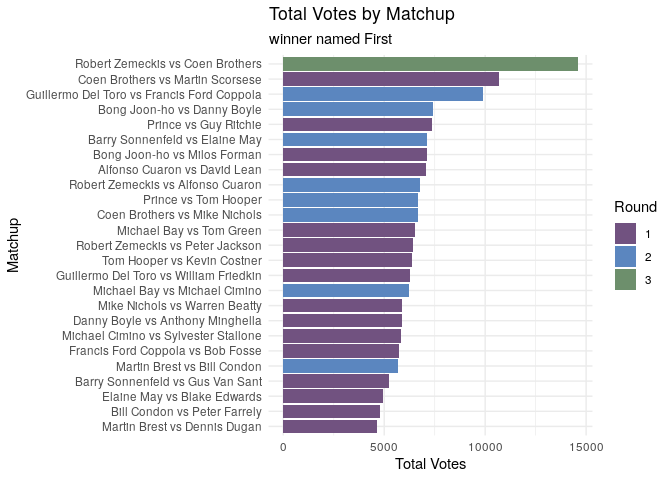
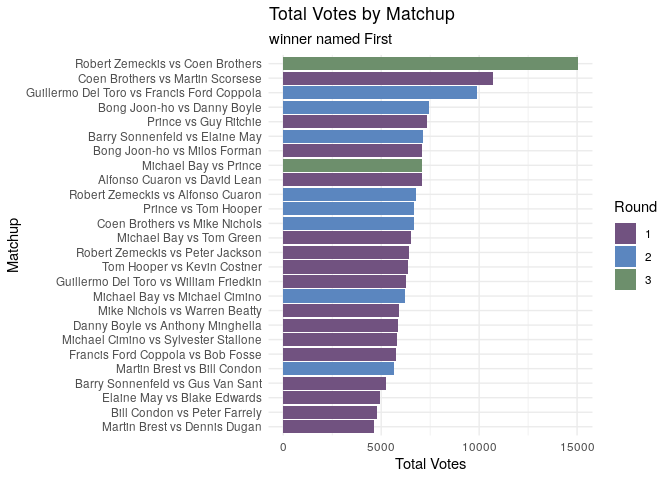
add prince vs bay round 3, look at total votes by award

Changed region(s): [[0.0312, 0.125, 0.75, 0.9375], [0.8438, 0.9062, 0.9062, 0.9375], [0.6875, 0.9062, 0.75, 0.9375]]

diff --git a/exploratory_analysis.md b/exploratory_analysis.md
@@ -15,6 +15,8 @@ editor_options:
 
 ![](exploratory_analysis_files/figure-html/unnamed-chunk-3-1.png)<!-- -->
 
-<!--html_preserve--><div id="htmlwidget-feffcb72ea1a363035c7" style="width:100%;height:auto;" class="datatables html-widget"></div>
-<script type="application/json" data-for="htmlwidget-feffcb72ea1a363035c7">{"x":{"filter":"none","data":[["1","2","3","4","5","6","7","8","9","10","11","12","13","14","15","16","17","18","19","20","21","22","23","24","25"],["Coen Brothers vs Martin Scorsese","Michael Bay vs Tom Green","Mike Nichols vs Warren Beatty","Michael Cimino vs Sylvester Stallone","Robert Zemeckis vs Peter Jackson","Tom Hooper vs Kevin Costner","Alfonso Cuaron vs David Lean","Prince vs Guy Ritchie","Danny Boyle vs Anthony Minghella","Martin Brest vs Dennis Dugan","Bong Joon-ho vs Milos Forman","Bill Condon vs Peter Farrely","Guillermo Del Toro vs William Friedkin","Barry Sonnenfeld vs Gus Van Sant","Francis Ford Coppola vs Bob Fosse","Elaine May vs Blake Edwards","Coen Brothers vs Mike Nichols","Michael Bay vs Michael Cimino","Robert Zemeckis vs Alfonso Cuaron","Prince vs Tom Hooper","Bong Joon-ho vs Danny Boyle","Martin Brest vs Bill Condon","Guillermo Del Toro vs Francis Ford Coppola","Barry Sonnenfeld vs Elaine May","Robert Zemeckis vs Coen Brothers"],[1,1,1,1,1,1,1,1,1,1,1,1,1,1,1,1,2,2,2,2,2,2,2,2,3],["Coen Brothers","Michael Bay","Mike Nichols","Michael Cimino","Robert Zemeckis","Tom Hooper","Alfonso Cuaron","Prince","Danny Boyle","Martin Brest","Bong Joon-ho","Bill Condon","Guillermo Del Toro","Barry Sonnenfeld","Francis Ford Coppola","Elaine May","Coen Brothers","Michael Bay","Robert Zemeckis","Prince","Bong Joon-ho","Martin Brest","Guillermo Del Toro","Barry Sonnenfeld","Robert Zemeckis"],["Martin Scorsese","Tom Green","Warren Beatty","Sylvester Stallone","Peter Jackson","Kevin Costner","David Lean","Guy Ritchie","Anthony Minghella","Dennis Dugan","Milos Forman","Peter Farrely","William Friedkin","Gus Van Sant","Bob Fosse","Blake Edwards","Mike Nichols","Michael Cimino","Alfonso Cuaron","Tom Hooper","Danny Boyle","Bill Condon","Francis Ford Coppola","Elaine May","Coen Brothers"],[6574,4759,3647,3005,3695,3185,4016,3743,3944,3056,4743,2490,3469,2905,3658,3945,4447,3407,4343,3397,4145,3058,6026,3676,7435],[4135,1748,2257,2814,2719,3179,3044,3613,1931,1577,2364,2286,2815,2356,2093,982,2226,2809,2439,3296,3272,2612,3886,3452,7150],[10709,6507,5904,5819,6414,6364,7060,7356,5875,4633,7107,4776,6284,5261,5751,4927,6673,6216,6782,6693,7417,5670,9912,7128,14585]],"container":"<table class=\"display\">\n  <thead>\n    <tr>\n      <th> <\/th>\n      <th>matchup<\/th>\n      <th>round<\/th>\n      <th>winner<\/th>\n      <th>loser<\/th>\n      <th>winning_votes<\/th>\n      <th>losing_votes<\/th>\n      <th>total_votes<\/th>\n    <\/tr>\n  <\/thead>\n<\/table>","options":{"columnDefs":[{"className":"dt-right","targets":[2,5,6,7]},{"orderable":false,"targets":0}],"order":[],"autoWidth":false,"orderClasses":false}},"evals":[],"jsHooks":[]}</script><!--/html_preserve-->
+![](exploratory_analysis_files/figure-html/unnamed-chunk-4-1.png)<!-- -->
+
+<!--html_preserve--><div id="htmlwidget-27d3422415dbe73f389b" style="width:100%;height:auto;" class="datatables html-widget"></div>
+<script type="application/json" data-for="htmlwidget-27d3422415dbe73f389b">{"x":{"filter":"none","data":[["1","2","3","4","5","6","7","8","9","10","11","12","13","14","15","16","17","18","19","20","21","22","23","24","25","26"],["Coen Brothers vs Martin Scorsese","Michael Bay vs Tom Green","Mike Nichols vs Warren Beatty","Michael Cimino vs Sylvester Stallone","Robert Zemeckis vs Peter Jackson","Tom Hooper vs Kevin Costner","Alfonso Cuaron vs David Lean","Prince vs Guy Ritchie","Danny Boyle vs Anthony Minghella","Martin Brest vs Dennis Dugan","Bong Joon-ho vs Milos Forman","Bill Condon vs Peter Farrely","Guillermo Del Toro vs William Friedkin","Barry Sonnenfeld vs Gus Van Sant","Francis Ford Coppola vs Bob Fosse","Elaine May vs Blake Edwards","Coen Brothers vs Mike Nichols","Michael Bay vs Michael Cimino","Robert Zemeckis vs Alfonso Cuaron","Prince vs Tom Hooper","Bong Joon-ho vs Danny Boyle","Martin Brest vs Bill Condon","Guillermo Del Toro vs Francis Ford Coppola","Barry Sonnenfeld vs Elaine May","Robert Zemeckis vs Coen Brothers","Michael Bay vs Prince"],[1,1,1,1,1,1,1,1,1,1,1,1,1,1,1,1,2,2,2,2,2,2,2,2,3,3],["Coen Brothers","Michael Bay","Mike Nichols","Michael Cimino","Robert Zemeckis","Tom Hooper","Alfonso Cuaron","Prince","Danny Boyle","Martin Brest","Bong Joon-ho","Bill Condon","Guillermo Del Toro","Barry Sonnenfeld","Francis Ford Coppola","Elaine May","Coen Brothers","Michael Bay","Robert Zemeckis","Prince","Bong Joon-ho","Martin Brest","Guillermo Del Toro","Barry Sonnenfeld","Robert Zemeckis","Michael Bay"],["Martin Scorsese","Tom Green","Warren Beatty","Sylvester Stallone","Peter Jackson","Kevin Costner","David Lean","Guy Ritchie","Anthony Minghella","Dennis Dugan","Milos Forman","Peter Farrely","William Friedkin","Gus Van Sant","Bob Fosse","Blake Edwards","Mike Nichols","Michael Cimino","Alfonso Cuaron","Tom Hooper","Danny Boyle","Bill Condon","Francis Ford Coppola","Elaine May","Coen Brothers","Prince"],[6574,4759,3647,3005,3695,3185,4016,3743,3944,3056,4743,2490,3469,2905,3658,3945,4447,3407,4343,3397,4145,3058,6026,3676,7688,3969],[4135,1748,2257,2814,2719,3179,3044,3613,1931,1577,2364,2286,2815,2356,2093,982,2226,2809,2439,3296,3272,2612,3886,3452,7346,3122],[10709,6507,5904,5819,6414,6364,7060,7356,5875,4633,7107,4776,6284,5261,5751,4927,6673,6216,6782,6693,7417,5670,9912,7128,15034,7091]],"container":"<table class=\"display\">\n  <thead>\n    <tr>\n      <th> <\/th>\n      <th>matchup<\/th>\n      <th>round<\/th>\n      <th>winner<\/th>\n      <th>loser<\/th>\n      <th>winning_votes<\/th>\n      <th>losing_votes<\/th>\n      <th>total_votes<\/th>\n    <\/tr>\n  <\/thead>\n<\/table>","options":{"columnDefs":[{"className":"dt-right","targets":[2,5,6,7]},{"orderable":false,"targets":0}],"order":[],"autoWidth":false,"orderClasses":false}},"evals":[],"jsHooks":[]}</script><!--/html_preserve-->
 
